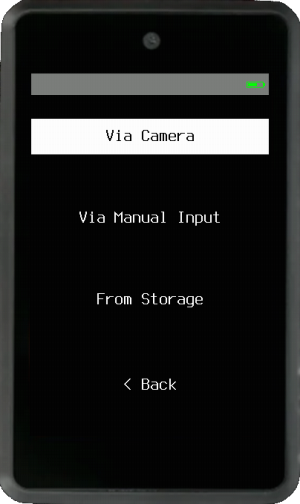
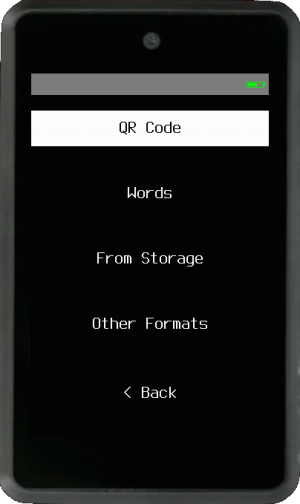
docs: update mnemonic loading flow

diff --git a/docs/getting-started/usage/loading-a-mnemonic.en.md b/docs/getting-started/usage/loading-a-mnemonic.en.md
@@ -1,92 +1,140 @@
-Once you have either a 12 or 24-word [BIP39 mnemonic](https://github.com/bitcoin/bips/blob/master/bip-0039.mediawiki), choose `Load Mnemonic` on Krux's start menu (aka login menu), and choose an input method:
+Once you have either a 12 or 24-word
+[BIP39 mnemonic](https://github.com/bitcoin/bips/blob/master/bip-0039.mediawiki),
+choose `Load Mnemonic` on Krux's start menu, then choose the backup format you
+recognise:
 
 <img src="../../../img/maixpy_amigo/load-mnemonic-options-300.png" class="amigo">
 <img src="../../../img/maixpy_m5stickv/load-mnemonic-options-250.png" class="m5stickv">
 
-## Input Methods
-<img src="../../../img/maixpy_m5stickv/load-mnemonic-camera-options-250.png" align="right" class="m5stickv">
-<img src="../../../img/maixpy_amigo/load-mnemonic-camera-options-300.png" align="right" class="amigo">
+## Backup Formats
 
-### Via Camera
-You can choose to use the camera to scan a `QR code`, `Tinyseed`, `OneKey KeyTag` or a `Binary Grid`. Learn more about these [metal backups here](../features/tinyseed.en.md).
+### QR Code
+
+Use the camera to read a QR code containing the mnemonic. Krux can decode four
+types:
+
+- **Plain text QR**: mnemonic words separated by spaces.
+- [SeedQR](https://github.com/SeedSigner/seedsigner/blob/dev/docs/seed_qr/README.md):
+  the BIP39 word numbers concatenated as text.
+- [Compact SeedQR](https://github.com/SeedSigner/seedsigner/blob/dev/docs/seed_qr/README.md/#compactseedqr-specification):
+  the mnemonic bits concatenated as bytes.
+- [Encrypted Mnemonic](../features/encryption/encryption.md/#regarding-bip39-mnemonics):
+  a Krux format that encrypts the mnemonic bits and records the encryption
+  method.
 
 ----8<----
 camera-scan-tips.en.txt
 ----8<----
 
-<div style="clear: both"></div>
+After opening a wallet, you can use Krux to
+[back up the mnemonic](navigating-the-main-menu.md#backup-mnemonic) as a QR
+code, [transcribe](../features/QR-transcript-tools.md) it to paper or metal, or
+print it with a thermal printer. See the
+[printing section](../features/printing/printing.md) for more information. You
+can also use an
+[offline QR code generator](https://iancoleman.io/bip39/), ideally on an
+air-gapped device.
 
-#### QR Code
+### Words
 
-It's unpleasant having to manually enter 12 or 24 words every time you want to use Krux. To remedy this you can instead use the device's camera to read a QR code containing the words. Krux will decode QR codes of four types:
-
-- **Plain text QR**: The mnemonic words encoded as text, with words separated by spaces.
-- [SeedQR](https://github.com/SeedSigner/seedsigner/blob/dev/docs/seed_qr/README.md): Basically, it is the mnemonic words of the respective BIP39 numbers concatenated, encoded as text.
-- [Compact SeedQR](https://github.com/SeedSigner/seedsigner/blob/dev/docs/seed_qr/README.md/#compactseedqr-specification): Basically, it is the mnemonic words bits concatenated as bytes.
-- [Encrypted Mnemonic](../features/encryption/encryption.md/#regarding-bip39-mnemonics): A specification created by Krux that encrypts the mnemonic words bits and adds some information about the encryption used.
-
-After opening a wallet via one of the methods available you can use Krux to [backup the mnemonic](navigating-the-main-menu.md#backup-mnemonic) as QR code, [transcribe](../features/QR-transcript-tools.md) them to paper or metal using the transcription helpers or attach a thermal printer to your Krux and print out the mnemonic as QR. Check out the [printing section](../features/printing/printing.md) for more information.
-You can also use [an offline QR code generator for this](https://iancoleman.io/bip39/) (ideally on an airgapped device).
-
-#### Tinyseed, OneKey KeyTag or Binary Grid
-[Tinyseed](https://tinyseed.io/), [Onekey KeyTag](https://onekey.so/products/onekey-keytag/) and others directly encode a seed as binary, allowing for a very compact mnemonic storage. Krux devices have machine vision capabilities that allow users to scan these metal plates and instantly load mnemonics engraved on them (this feature is not available in [Krux Mobile Android app](../../faq.md#what-is-krux-mobile-android-app)).
-
-To ensure a proper scan, place the backup plate over a black background and fill in the punched areas with black to enhance contrast. Alternatively, you can scan a [thermally printed version](../features/printing/printing.md) or a completed template. You can view some [examples of encoded mnemonics here](../features/tinyseed.md), and explore our [available transcription templates here](../templates/index.md).
-
-### Via Manual Input
-<img src="../../../img/maixpy_m5stickv/load-mnemonic-manual-options-250.png" align="right" class="m5stickv">
-<img src="../../../img/maixpy_amigo/load-mnemonic-manual-options-300.png" align="right" class="amigo">
-
-Manually type `Words`, `Word Numbers`, `Tinyseed` (toggle the bits or punches) or [`Stackbit 1248`](https://stackbit.me/produto/stackbit-1248/).
-
-<div style="clear: both"></div>
-
-#### Words
 <img src="../../../img/maixpy_m5stickv/load-mnemonic-via-text-word-250.png" align="right" class="m5stickv">
 <img src="../../../img/maixpy_amigo/load-mnemonic-via-text-word-300.png" align="right" class="amigo">
 
-Enter each word of your BIP39 mnemonic one at a time. Krux will disable impossible-to-reach letters as you type and will attempt to autocomplete your words to speed up the process.
-
-<div style="clear: both"></div>
-
-#### Word Numbers
-<img src="../../../img/maixpy_m5stickv/load-mnemonic-via-numbers-word-250.png" align="right" class="m5stickv">
-<img src="../../../img/maixpy_amigo/load-mnemonic-via-numbers-word-300.png" align="right" class="amigo">
-
-##### Decimal
-Enter each word of your BIP39 mnemonic as a number (1-2048) one at a time. You can use [this list](https://github.com/bitcoin/bips/blob/master/bip-0039/english.txt) for reference.
-
-##### Hexadecimal and Octal
-You can also enter your BIP39 mnemonic word's numbers (1-2048) in hexadecimal format, with values ranging from 0x1 to 0x800, or in octal format, with values ranging from 01 to 04000. This is useful with some metal plate backups that uses those formats.
-
-<div style="clear: both"></div>
-
-#### Tinyseed (Bits)
-<img src="../../../img/maixpy_m5stickv/load-mnemonic-via-tinyseed-filled-250.png" align="right" class="m5stickv">
-<img src="../../../img/maixpy_amigo/load-mnemonic-via-tinyseed-filled-300.png" align="right" class="amigo">
-
-Enter the BIP39 mnemonic word's numbers (1-2048) in binary format, toggling necessary bits to recreate each of the word's respective number. The last word will have checksum bits dynamically toggled while you fill the bits.
-
-**Tip**: You can use this screen to generate a mnemonic by flipping a coin:
-
-- Flip a coin, if it is heads, mark the first space (value 1) of the word, if it is tails do nothing. Repeat this step for each space up to 1024 (if you flip 11 tails in a row, just leave the 2048 square marked).
-- The last word has the checksum, you will do as you did with the other words, the only difference is that you cannot set some spaces, they are calculated automatically. For 12 words you will flip the coin only 7 times, for spaces 16, 32, 64, 128, 256, 512 and 1024. For 24 words you will flip the coin only 3 times, for spaces 256, 512 and 1024.
-
-<div style="clear: both"></div>
-
-#### Stackbit 1248
-<img src="../../../img/maixpy_m5stickv/load-mnemonic-via-stackbit-filled-250.png" align="right" class="m5stickv">
-<img src="../../../img/maixpy_amigo/load-mnemonic-via-stackbit-filled-300.png" align="right" class="amigo">
-
-Enter the BIP39 mnemonic word's numbers (1-2048) using the Stackbit 1248 metal plate backup method, where each of the four digits of the word's number is a sum of the numbers marked (punched) 1, 2, 4, or 8. For example, to enter the word "oyster", number 1268, you must punch (1)(2)(2,4)(8).
+Enter each BIP39 word one at a time. Krux disables impossible letters as you
+type and attempts to autocomplete each word.
 
 <div style="clear: both"></div>
 
 ### From Storage
+
 <img src="../../../img/maixpy_m5stickv/load-mnemonic-storage-options-250.png" align="right" class="m5stickv">
 <img src="../../../img/maixpy_amigo/load-mnemonic-storage-options-300.png" align="right" class="amigo">
 
-You can also retrieve [encrypted mnemonics previously stored](./navigating-the-main-menu.md/#encrypted) on device's internal memory or external (SD card). To load them you'll have to enter the same key you used to encrypt them.
+Retrieve an
+[encrypted mnemonic previously stored](./navigating-the-main-menu.md/#encrypted)
+in internal memory or on an SD card. Enter the same key that was used to
+encrypt it.
+
+<div style="clear: both"></div>
+
+### Other Formats
+
+<img src="../../../img/maixpy_m5stickv/load-mnemonic-other-formats-250.png" align="right" class="m5stickv">
+<img src="../../../img/maixpy_amigo/load-mnemonic-other-formats-300.png" align="right" class="amigo">
+
+Specialist backup formats are grouped in one menu: `Tinyseed`,
+`Tinyseed (Bits)`, `OneKey KeyTag`, `Binary Grid`, `Word Numbers`, and
+`Stackbit 1248`.
+
+<div style="clear: both"></div>
+
+#### Tinyseed
+
+[Tinyseed](https://tinyseed.io/) directly encodes a seed as binary on a compact
+backup plate. Krux can scan a completed Tinyseed with its camera. This feature
+is not available in the
+[Krux Mobile Android app](../../faq.md#what-is-krux-mobile-android-app).
+
+Place the backup over a black background and fill punched areas with black to
+improve contrast. You can also scan a
+[thermally printed version](../features/printing/printing.md) or a completed
+template. See the [encoded examples](../features/tinyseed.md) and
+[transcription templates](../templates/index.md).
+
+#### Tinyseed (Bits)
+
+<img src="../../../img/maixpy_m5stickv/load-mnemonic-via-tinyseed-filled-250.png" align="right" class="m5stickv">
+<img src="../../../img/maixpy_amigo/load-mnemonic-via-tinyseed-filled-300.png" align="right" class="amigo">
+
+Enter each BIP39 word number (1-2048) in binary by toggling its bits. Krux
+calculates the checksum bits for the final word while you enter it.
+
+**Tip**: You can use this screen to generate a mnemonic with coin flips:
+
+- For each bit through 1024, mark it for heads and leave it unmarked for tails.
+- For the last word, Krux calculates the checksum positions. Flip seven times
+  for a 12-word mnemonic or three times for a 24-word mnemonic.
+
+<div style="clear: both"></div>
+
+#### OneKey KeyTag
+
+[OneKey KeyTag](https://onekey.so/products/onekey-keytag/) also stores a seed
+as a compact binary pattern. Use the camera to scan the completed plate.
+
+#### Binary Grid
+
+Use the camera to scan another supported binary-grid backup or a completed
+transcription template.
+
+#### Word Numbers
+
+<img src="../../../img/maixpy_m5stickv/load-mnemonic-via-numbers-word-250.png" align="right" class="m5stickv">
+<img src="../../../img/maixpy_amigo/load-mnemonic-via-numbers-word-300.png" align="right" class="amigo">
+
+##### Decimal
+
+Enter each BIP39 word as its number from 1 to 2048. Use the
+[BIP39 English word list](https://github.com/bitcoin/bips/blob/master/bip-0039/english.txt)
+for reference.
+
+##### Hexadecimal and Octal
+
+Word numbers can also be entered in hexadecimal from `0x1` to `0x800`, or in
+octal from `01` to `04000`. These forms are useful with metal backups that use
+those number systems.
+
+<div style="clear: both"></div>
+
+#### Stackbit 1248
+
+<img src="../../../img/maixpy_m5stickv/load-mnemonic-via-stackbit-filled-250.png" align="right" class="m5stickv">
+<img src="../../../img/maixpy_amigo/load-mnemonic-via-stackbit-filled-300.png" align="right" class="amigo">
+
+Enter each BIP39 word number with the
+[Stackbit 1248](https://stackbit.me/produto/stackbit-1248/) backup method. Each
+digit is the sum of marked values 1, 2, 4, or 8. For example, word number 1268
+uses `(1)(2)(2,4)(8)`.
 
 <div style="clear: both"></div>
 

diff --git a/docs/getting-started/usage/navigating-the-main-menu.en.md b/docs/getting-started/usage/navigating-the-main-menu.en.md
@@ -43,7 +43,11 @@ Words are converted to their BIP39 numeric indexes, those numbers are then conca
 
 - **Encrypted QR Code**
 
-This option converts the encrypted mnemonic into a QR code. Enter an encryption key and, optionally, a custom ID. When you scan this QR code through **Load Mnemonic -> Via Camera -> QR Code**, you will be prompted to enter the decryption key to load the mnemonic stored in it. Like any QR code, it can be printed after setting up the printer driver.
+This option converts the encrypted mnemonic into a QR code. Enter an encryption
+key and, optionally, a custom ID. When you scan this QR code through
+**Load Mnemonic -> QR Code**, you will be prompted to enter the decryption key
+to load the mnemonic stored in it. Like any QR code, it can be printed after
+setting up the printer driver.
 
 **Transcribing QR Codes**
 
